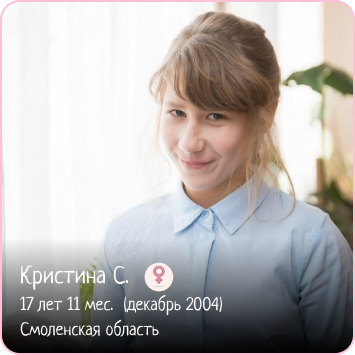
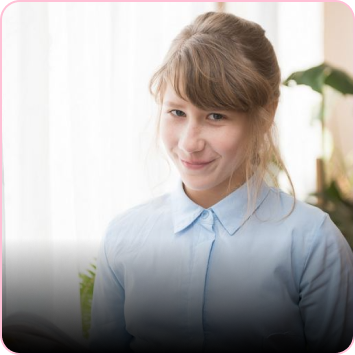
Added data on the childrens cards

Changed region(s): [[0.062, 0.7437, 0.6507, 0.9606], [0.062, 0.7437, 0.3718, 0.8056]]

diff --git a/category.html b/category.html
@@ -301,41 +301,113 @@
                         <div class="swiper-slide__block">
                            <div class="cards-container">
                               <!-- Slides -->
-                              <div class="slide-item">
+                              <div class="slide-item card child01">
                                  <img src="./img/category/children/child01.png" alt="child01">
+                                 <div class="card-info">
+                                    <p class="surname"><span>Кристина С.</span> <span class="sex-sign"><img
+                                             src="./img/category/children/female1.png" alt=""></span></p>
+                                    <p class="birthdate"><span>17 лет 11 мес. </span><span>(декабрь 2004)</span></p>
+                                    <p class="region">Смоленская область</p>
+                                 </div>
                               </div>
-                              <div class="slide-item">
+                              <div class="slide-item card child02">
                                  <img src="./img/category/children/child02.png" alt="child02">
+                                 <div class="card-info">
+                                    <p class="surname"><span>Максим К.</span> <span class="sex-sign"><img
+                                             src="./img/category/children/male1.png" alt=""></span></p>
+                                    <p class="birthdate"><span>16 лет 7 мес. </span><span>(апрель 2006)</span></p>
+                                    <p class="region">Смоленская область</p>
+                                 </div>
                               </div>
-                              <div class="slide-item">
+                              <div class="slide-item card child03">
                                  <img src="./img/category/children/child03.png" alt="child03">
+                                 <div class="card-info">
+                                    <p class="surname"><span>Звенислава С.</span> <span class="sex-sign"><img
+                                             src="./img/category/children/female1.png" alt=""></span></p>
+                                    <p class="birthdate"><span>14 лет 3 мес. </span><span>(август 2008)</span></p>
+                                    <p class="region">Владимирская область</p>
+                                 </div>
                               </div>
-                              <div class="slide-item">
+                              <div class="slide-item card child04">
                                  <img src="./img/category/children/child04.png" alt="child04">
+                                 <div class="card-info">
+                                    <p class="surname"><span>Дмитрий И.</span> <span class="sex-sign"><img
+                                             src="./img/category/children/male1.png" alt=""></span></p>
+                                    <p class="birthdate"><span>8 мес. </span><span>(март 2022)</span></p>
+                                    <p class="region">Калужская область</p>
+                                 </div>
                               </div>
-                              <div class="slide-item">
+                              <div class="slide-item card child05">
                                  <img src="./img/category/children/child05.png" alt="child05">
+                                 <div class="card-info">
+                                    <p class="surname"><span>Татьяна К.</span> <span class="sex-sign"><img
+                                             src="./img/category/children/female1.png" alt=""></span></p>
+                                    <p class="birthdate"><span>16 лет 5 мес. </span><span>(июнь 2006)</span></p>
+                                    <p class="region">Брянская область</p>
+                                 </div>
                               </div>
-                              <div class="slide-item">
+                              <div class="slide-item card child06">
                                  <img src="./img/category/children/child06.png" alt="child06">
+                                 <div class="card-info">
+                                    <p class="surname"><span>Анатолий В.</span> <span class="sex-sign"><img
+                                             src="./img/category/children/male1.png" alt=""></span></p>
+                                    <p class="birthdate"><span>6 лет 7 мес. </span><span>(апрель 2016)</span></p>
+                                    <p class="region">Ростовская область</p>
+                                 </div>
                               </div>
-                              <div class="slide-item">
+                              <div class="slide-item card child07">
                                  <img src="./img/category/children/child07.png" alt="child07">
+                                 <div class="card-info">
+                                    <p class="surname"><span>Кристина С.</span> <span class="sex-sign"><img
+                                             src="./img/category/children/female1.png" alt=""></span></p>
+                                    <p class="birthdate"><span>17 лет 11 мес. </span><span>(декабрь 2004)</span></p>
+                                    <p class="region">Смоленская область</p>
+                                 </div>
                               </div>
-                              <div class="slide-item">
+                              <div class="slide-item card child08">
                                  <img src="./img/category/children/child08.png" alt="child08">
+                                 <div class="card-info">
+                                    <p class="surname"><span>Максим К.</span> <span class="sex-sign"><img
+                                             src="./img/category/children/male1.png" alt=""></span></p>
+                                    <p class="birthdate"><span>16 лет 7 мес. </span><span>(апрель 2006)</span></p>
+                                    <p class="region">Смоленская область</p>
+                                 </div>
                               </div>
-                              <div class="slide-item">
+                              <div class="slide-item card child09">
                                  <img src="./img/category/children/child09.png" alt="child09">
+                                 <div class="card-info">
+                                    <p class="surname"><span>Звенислава С.</span> <span class="sex-sign"><img
+                                             src="./img/category/children/female1.png" alt=""></span></p>
+                                    <p class="birthdate"><span>14 лет 3 мес. </span><span>(август 2008)</span></p>
+                                    <p class="region">Владимирская область</p>
+                                 </div>
                               </div>
-                              <div class="slide-item">
+                              <div class="slide-item card child10">
                                  <img src="./img/category/children/child10.png" alt="child10">
+                                 <div class="card-info">
+                                    <p class="surname"><span>Дмитрий И.</span> <span class="sex-sign"><img
+                                             src="./img/category/children/male1.png" alt=""></span></p>
+                                    <p class="birthdate"><span>8 мес. </span><span>(март 2022)</span></p>
+                                    <p class="region">Калужская область</p>
+                                 </div>
                               </div>
-                              <div class="slide-item">
+                              <div class="slide-item card child11">
                                  <img src="./img/category/children/child11.png" alt="child11">
+                                 <div class="card-info">
+                                    <p class="surname"><span>Татьяна К.</span> <span class="sex-sign"><img
+                                             src="./img/category/children/female1.png" alt=""></span></p>
+                                    <p class="birthdate"><span>16 лет 5 мес. </span><span>(июнь 2006)</span></p>
+                                    <p class="region">Брянская область</p>
+                                 </div>
                               </div>
-                              <div class="slide-item">
+                              <div class="slide-item card child12">
                                  <img src="./img/category/children/child12.png" alt="child12">
+                                 <div class="card-info">
+                                    <p class="surname"><span>Анатолий В.</span> <span class="sex-sign"><img
+                                             src="./img/category/children/male1.png" alt=""></span></p>
+                                    <p class="birthdate"><span>6 лет 7 мес. </span><span>(апрель 2016)</span></p>
+                                    <p class="region">Ростовская область</p>
+                                 </div>
                               </div>
                            </div>
                         </div>
@@ -345,41 +417,113 @@
                         <div class="swiper-slide__block">
                            <div class="cards-container">
                               <!-- Slides -->
-                              <div class="slide-item">
+                              <div class="slide-item card child01">
                                  <img src="./img/category/children/child01.png" alt="child01">
+                                 <div class="card-info">
+                                    <p class="surname"><span>Кристина С.</span> <span class="sex-sign"><img
+                                             src="./img/category/children/female1.png" alt=""></span></p>
+                                    <p class="birthdate"><span>17 лет 11 мес. </span><span>(декабрь 2004)</span></p>
+                                    <p class="region">Смоленская область</p>
+                                 </div>
                               </div>
-                              <div class="slide-item">
+                              <div class="slide-item card child02">
                                  <img src="./img/category/children/child02.png" alt="child02">
+                                 <div class="card-info">
+                                    <p class="surname"><span>Максим К.</span> <span class="sex-sign"><img
+                                             src="./img/category/children/male1.png" alt=""></span></p>
+                                    <p class="birthdate"><span>16 лет 7 мес. </span><span>(апрель 2006)</span></p>
+                                    <p class="region">Смоленская область</p>
+                                 </div>
                               </div>
-                              <div class="slide-item">
+                              <div class="slide-item card child03">
                                  <img src="./img/category/children/child03.png" alt="child03">
+                                 <div class="card-info">
+                                    <p class="surname"><span>Звенислава С.</span> <span class="sex-sign"><img
+                                             src="./img/category/children/female1.png" alt=""></span></p>
+                                    <p class="birthdate"><span>14 лет 3 мес. </span><span>(август 2008)</span></p>
+                                    <p class="region">Владимирская область</p>
+                                 </div>
                               </div>
-                              <div class="slide-item">
+                              <div class="slide-item card child04">
                                  <img src="./img/category/children/child04.png" alt="child04">
+                                 <div class="card-info">
+                                    <p class="surname"><span>Дмитрий И.</span> <span class="sex-sign"><img
+                                             src="./img/category/children/male1.png" alt=""></span></p>
+                                    <p class="birthdate"><span>8 мес. </span><span>(март 2022)</span></p>
+                                    <p class="region">Калужская область</p>
+                                 </div>
                               </div>
-                              <div class="slide-item">
+                              <div class="slide-item card child05">
                                  <img src="./img/category/children/child05.png" alt="child05">
+                                 <div class="card-info">
+                                    <p class="surname"><span>Татьяна К.</span> <span class="sex-sign"><img
+                                             src="./img/category/children/female1.png" alt=""></span></p>
+                                    <p class="birthdate"><span>16 лет 5 мес. </span><span>(июнь 2006)</span></p>
+                                    <p class="region">Брянская область</p>
+                                 </div>
                               </div>
-                              <div class="slide-item">
+                              <div class="slide-item card child06">
                                  <img src="./img/category/children/child06.png" alt="child06">
+                                 <div class="card-info">
+                                    <p class="surname"><span>Анатолий В.</span> <span class="sex-sign"><img
+                                             src="./img/category/children/male1.png" alt=""></span></p>
+                                    <p class="birthdate"><span>6 лет 7 мес. </span><span>(апрель 2016)</span></p>
+                                    <p class="region">Ростовская область</p>
+                                 </div>
                               </div>
-                              <div class="slide-item">
+                              <div class="slide-item card child07">
                                  <img src="./img/category/children/child07.png" alt="child07">
+                                 <div class="card-info">
+                                    <p class="surname"><span>Кристина С.</span> <span class="sex-sign"><img
+                                             src="./img/category/children/female1.png" alt=""></span></p>
+                                    <p class="birthdate"><span>17 лет 11 мес. </span><span>(декабрь 2004)</span></p>
+                                    <p class="region">Смоленская область</p>
+                                 </div>
                               </div>
-                              <div class="slide-item">
+                              <div class="slide-item card child08">
                                  <img src="./img/category/children/child08.png" alt="child08">
+                                 <div class="card-info">
+                                    <p class="surname"><span>Максим К.</span> <span class="sex-sign"><img
+                                             src="./img/category/children/male1.png" alt=""></span></p>
+                                    <p class="birthdate"><span>16 лет 7 мес. </span><span>(апрель 2006)</span></p>
+                                    <p class="region">Смоленская область</p>
+                                 </div>
                               </div>
-                              <div class="slide-item">
+                              <div class="slide-item card child09">
                                  <img src="./img/category/children/child09.png" alt="child09">
+                                 <div class="card-info">
+                                    <p class="surname"><span>Звенислава С.</span> <span class="sex-sign"><img
+                                             src="./img/category/children/female1.png" alt=""></span></p>
+                                    <p class="birthdate"><span>14 лет 3 мес. </span><span>(август 2008)</span></p>
+                                    <p class="region">Владимирская область</p>
+                                 </div>
                               </div>
-                              <div class="slide-item">
+                              <div class="slide-item card child10">
                                  <img src="./img/category/children/child10.png" alt="child10">
+                                 <div class="card-info">
+                                    <p class="surname"><span>Дмитрий И.</span> <span class="sex-sign"><img
+                                             src="./img/category/children/male1.png" alt=""></span></p>
+                                    <p class="birthdate"><span>8 мес. </span><span>(март 2022)</span></p>
+                                    <p class="region">Калужская область</p>
+                                 </div>
                               </div>
-                              <div class="slide-item">
+                              <div class="slide-item card child11">
                                  <img src="./img/category/children/child11.png" alt="child11">
+                                 <div class="card-info">
+                                    <p class="surname"><span>Татьяна К.</span> <span class="sex-sign"><img
+                                             src="./img/category/children/female1.png" alt=""></span></p>
+                                    <p class="birthdate"><span>16 лет 5 мес. </span><span>(июнь 2006)</span></p>
+                                    <p class="region">Брянская область</p>
+                                 </div>
                               </div>
-                              <div class="slide-item">
+                              <div class="slide-item card child12">
                                  <img src="./img/category/children/child12.png" alt="child12">
+                                 <div class="card-info">
+                                    <p class="surname"><span>Анатолий В.</span> <span class="sex-sign"><img
+                                             src="./img/category/children/male1.png" alt=""></span></p>
+                                    <p class="birthdate"><span>6 лет 7 мес. </span><span>(апрель 2016)</span></p>
+                                    <p class="region">Ростовская область</p>
+                                 </div>
                               </div>
                            </div>
                         </div>

diff --git a/css/category.css b/css/category.css
@@ -67,11 +67,57 @@
 .card {
    max-width: 355px;
    max-height: 355px;
-   /* margin-bottom: 50px; */
+   position: relative;
+}
+
+.card-info {
+   position: absolute;
+   bottom: 20px;
+   left: 20px;
 }
 
 .card img {
    width: 100%;
+}
+
+.surname,
+.birthdate,
+.region {
+   font-family: 'Neucha';
+   font-style: normal;
+   font-weight: 400;
+   font-size: 18px;
+   line-height: 20px;
+   color: #FFFFFF;
+}
+
+.birthdate {
+   display: inline-block;
+   margin-top: -4px;
+}
+
+.surname {
+   display: flex;
+   align-items: center;
+   font-size: 24px;
+   line-height: 26px;
+}
+
+.region {
+   line-height: 26px;
+}
+
+/* .surname span {
+   vertical-align: center;
+} */
+
+.sex-sign {
+   display: inline-block;
+}
+
+.sex-sign>img {
+   width: 40px;
+   height: 40px;
 }
 
 .swiper {
